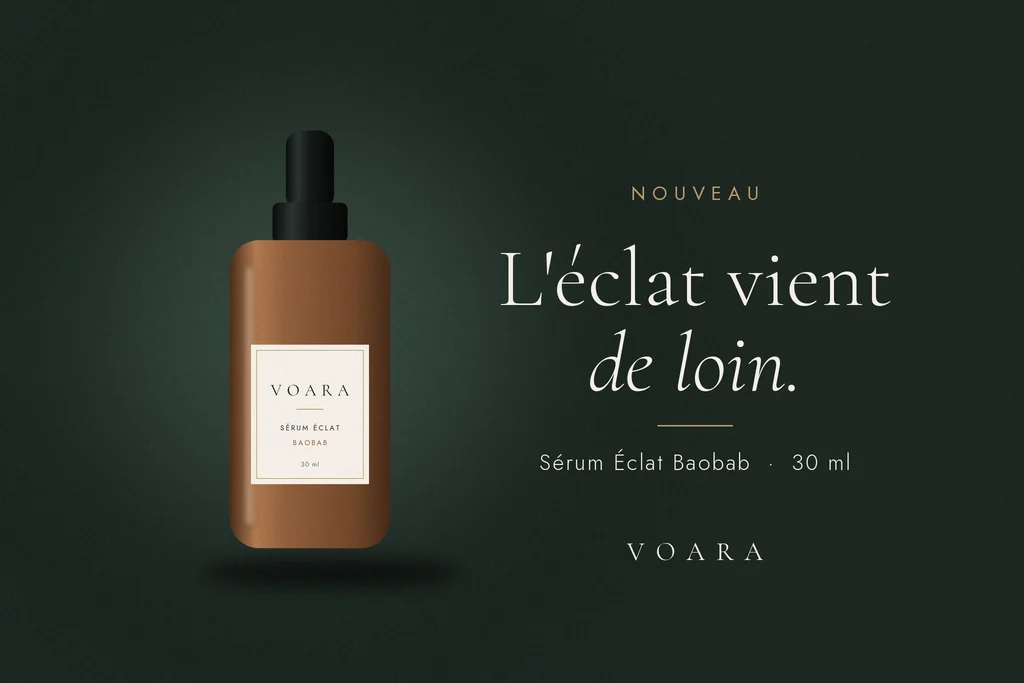
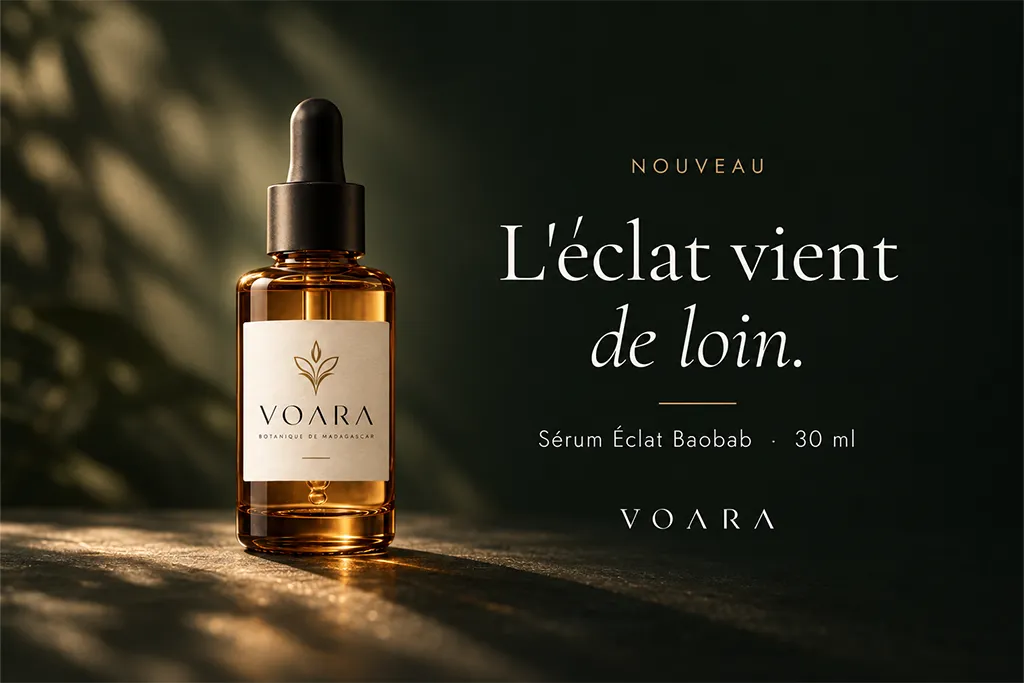
Voara : planches retravaillées par le propriétaire

diff --git a/HISTORIQUE.md b/HISTORIQUE.md
@@ -26,6 +26,7 @@ Dernière mise à jour : 03/10/2026
 - **Contrainte** : les vrais projets du propriétaire n'ont pas l'accord des clients pour être publiés. Décision : deux **projets concept** (marques fictives, annoncés comme tels), ciblés sur ce que l'agence produit (réseaux sociaux, bannières, e-mailing pour des marques de beauté et de grande consommation).
 - **Fait** : briefs dans `briefs/`, fiches `_projets/campagne-reseaux-sociaux-voara.md` et `_projets/campagne-publicitaire-bao-fizz.md` en brouillon, avec des images provisoires dans `portfolio/<nom>/img/`.
 - **Voara** : direction artistique « luxe calme » dans `briefs/voara-direction-artistique.html`. À la demande du propriétaire, les huit visuels et les cinq planches ont été **générés par l'assistant** (script `briefs/outils/generer-visuels-voara.py`, Pillow) : flacon dessiné, aucune photographie. Visuels en taille réelle dans `briefs/voara-visuels/`, planches du site dans `portfolio/campagne-reseaux-sociaux-voara/img/`. La fiche reste en brouillon : le propriétaire doit valider, et idéalement refaire les visuels avec ses outils (la fiche annonce Photoshop et Illustrator, ce qui n'est pas vrai des images générées).
+- **Voara, suite** : le 03/10/2026 au soir, le propriétaire a remplacé la couverture et les quatre planches par ses propres versions retravaillées (flacon et fruit de baobab photoréalistes, emblème végétal ajouté au logo). Les fichiers de `briefs/voara-visuels/` et le script correspondent donc à l'ancienne version générée, plus à ce qui est en ligne. Reste à confirmer avec lui : les outils à afficher sur la fiche, et le retrait de `brouillon`.
 - **Bao Fizz** : visuels à créer par le propriétaire en suivant le brief ; images provisoires en place.
 - **À faire ensuite** : relire les textes des deux pages par rapport aux visuels réels, retirer `brouillon` et `sitemap: false`, éventuellement passer `accueil: true`, puis rédiger la réponse à l'agence (tarif journalier à fixer avec le propriétaire).
 - **Questions sans réponse** : le projet Aquafish est-il un vrai client ? (s'il est fictif : `concept: true` et retirer le témoignage) ; faut-il mettre la nouvelle version en production avant de répondre à l'agence ?
@@ -140,3 +141,6 @@ Liste complète et ordre de traitement proposé : voir [AUDIT.md](AUDIT.md). Rap
 **Voara : direction artistique et visuels**
 - Planche de direction artistique (HTML) et brief alignés sur une direction « luxe calme » (noir végétal, ivoire, or champagne, Cormorant Garamond et Jost).
 - Huit visuels (3 posts, 1 story, 4 vues de carrousel) et cinq planches 1024 × 683 générés par script, à la place des images provisoires.
+
+**Voara : planches du propriétaire**
+- Les cinq images de `portfolio/campagne-reseaux-sociaux-voara/img/` sont désormais celles du propriétaire (WebP, 1024 × 683 px, vérifiées). Envoyées sur la version de test.
